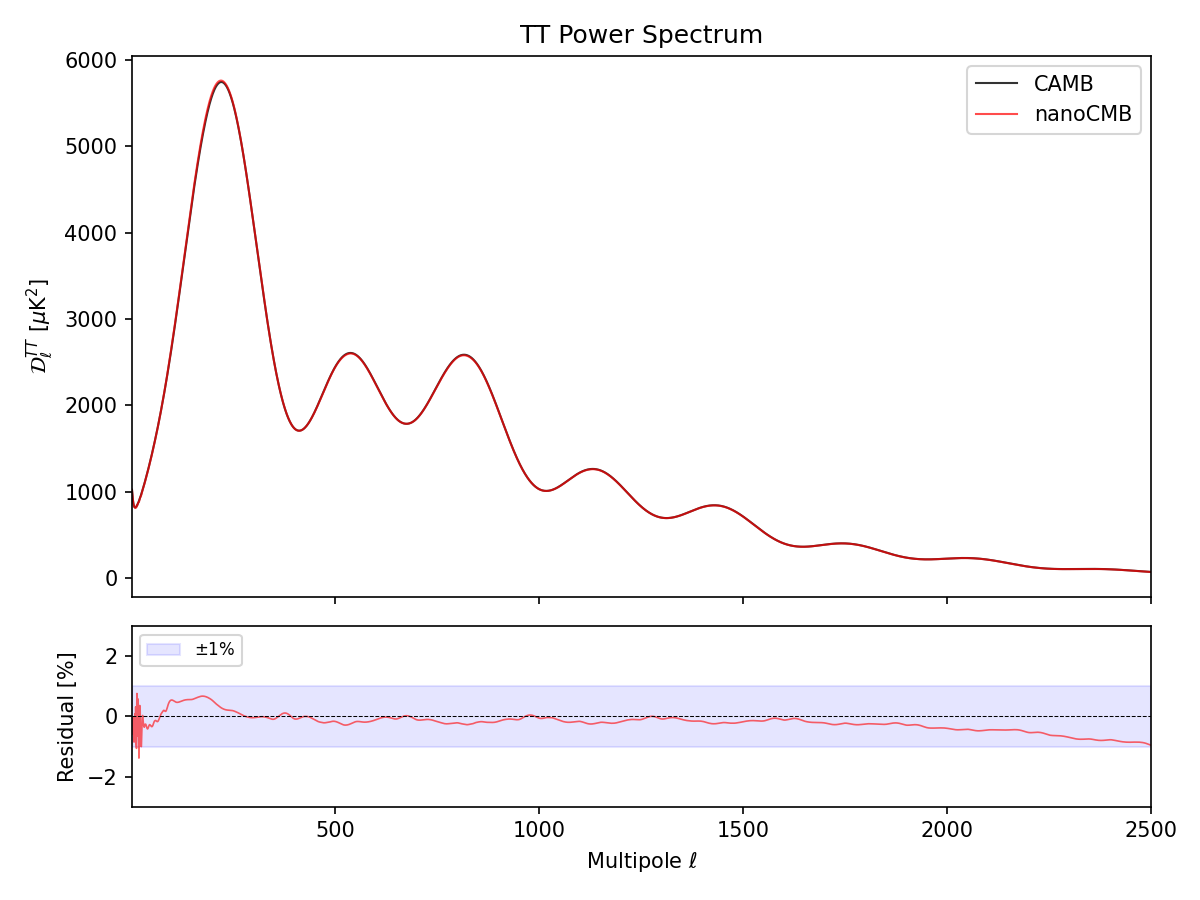
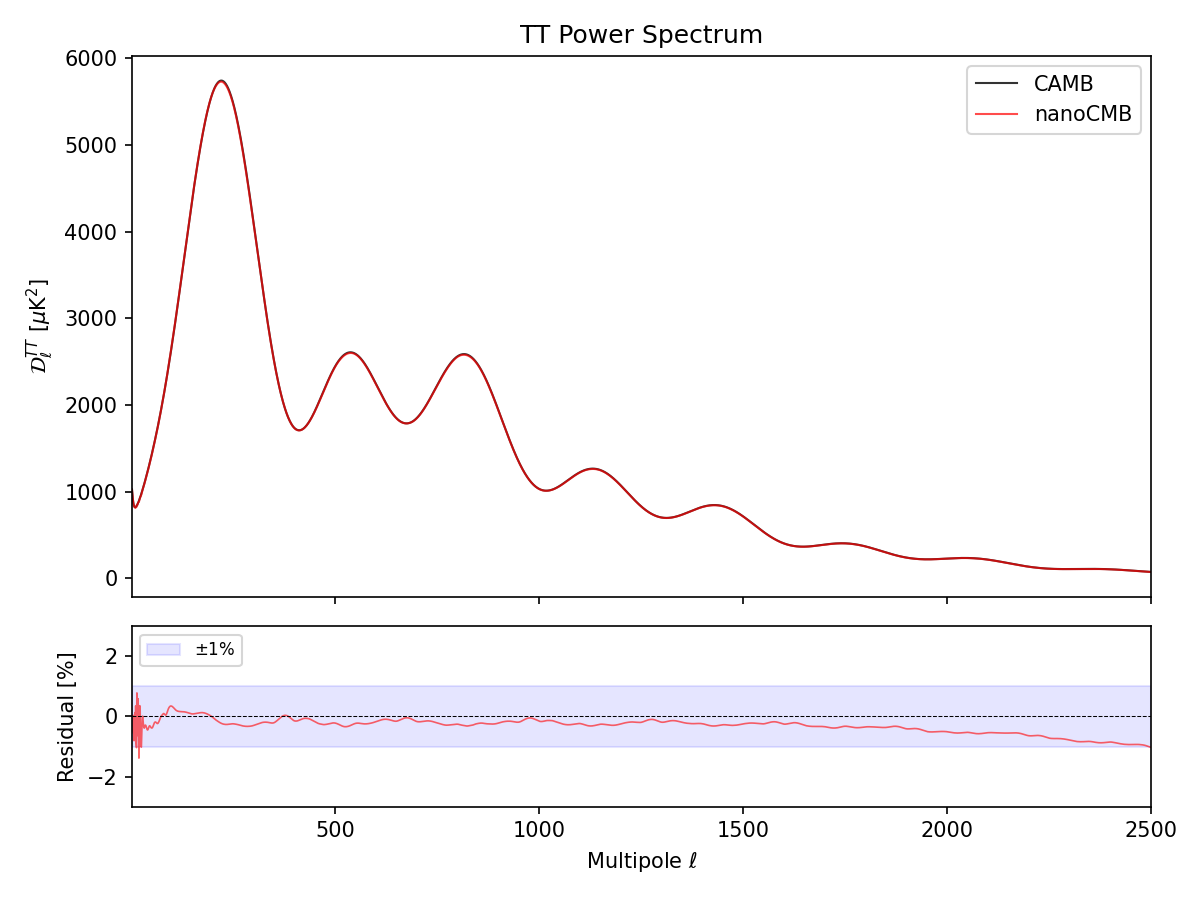
Update readme

diff --git a/README.md b/README.md
@@ -40,9 +40,9 @@ Validated against CAMB (AccuracyBoost=3) with Planck 2018 best-fit parameters:
 | l range | TT (mean ratio) | TT (std) | EE (mean ratio) | EE (std) |
 |---------|:---:|:---:|:---:|:---:|
 | 2-30 | 0.997 | 0.5% | - | - |
-| 30-500 | 1.001 | 0.3% | 0.999 | 0.4% |
-| 500-2000 | 0.998 | 0.1% | 0.996 | 0.2% |
-| 2000-2500 | 0.994 | 0.2% | 0.992 | 0.4% |
+| 30-500 | 0.999 | 0.2% | 0.997 | 0.3% |
+| 500-2000 | 0.997 | 0.1% | 0.996 | 0.1% |
+| 2000-2500 | 0.993 | 0.2% | 0.992 | 0.4% |
 
 ## What's inside
 
